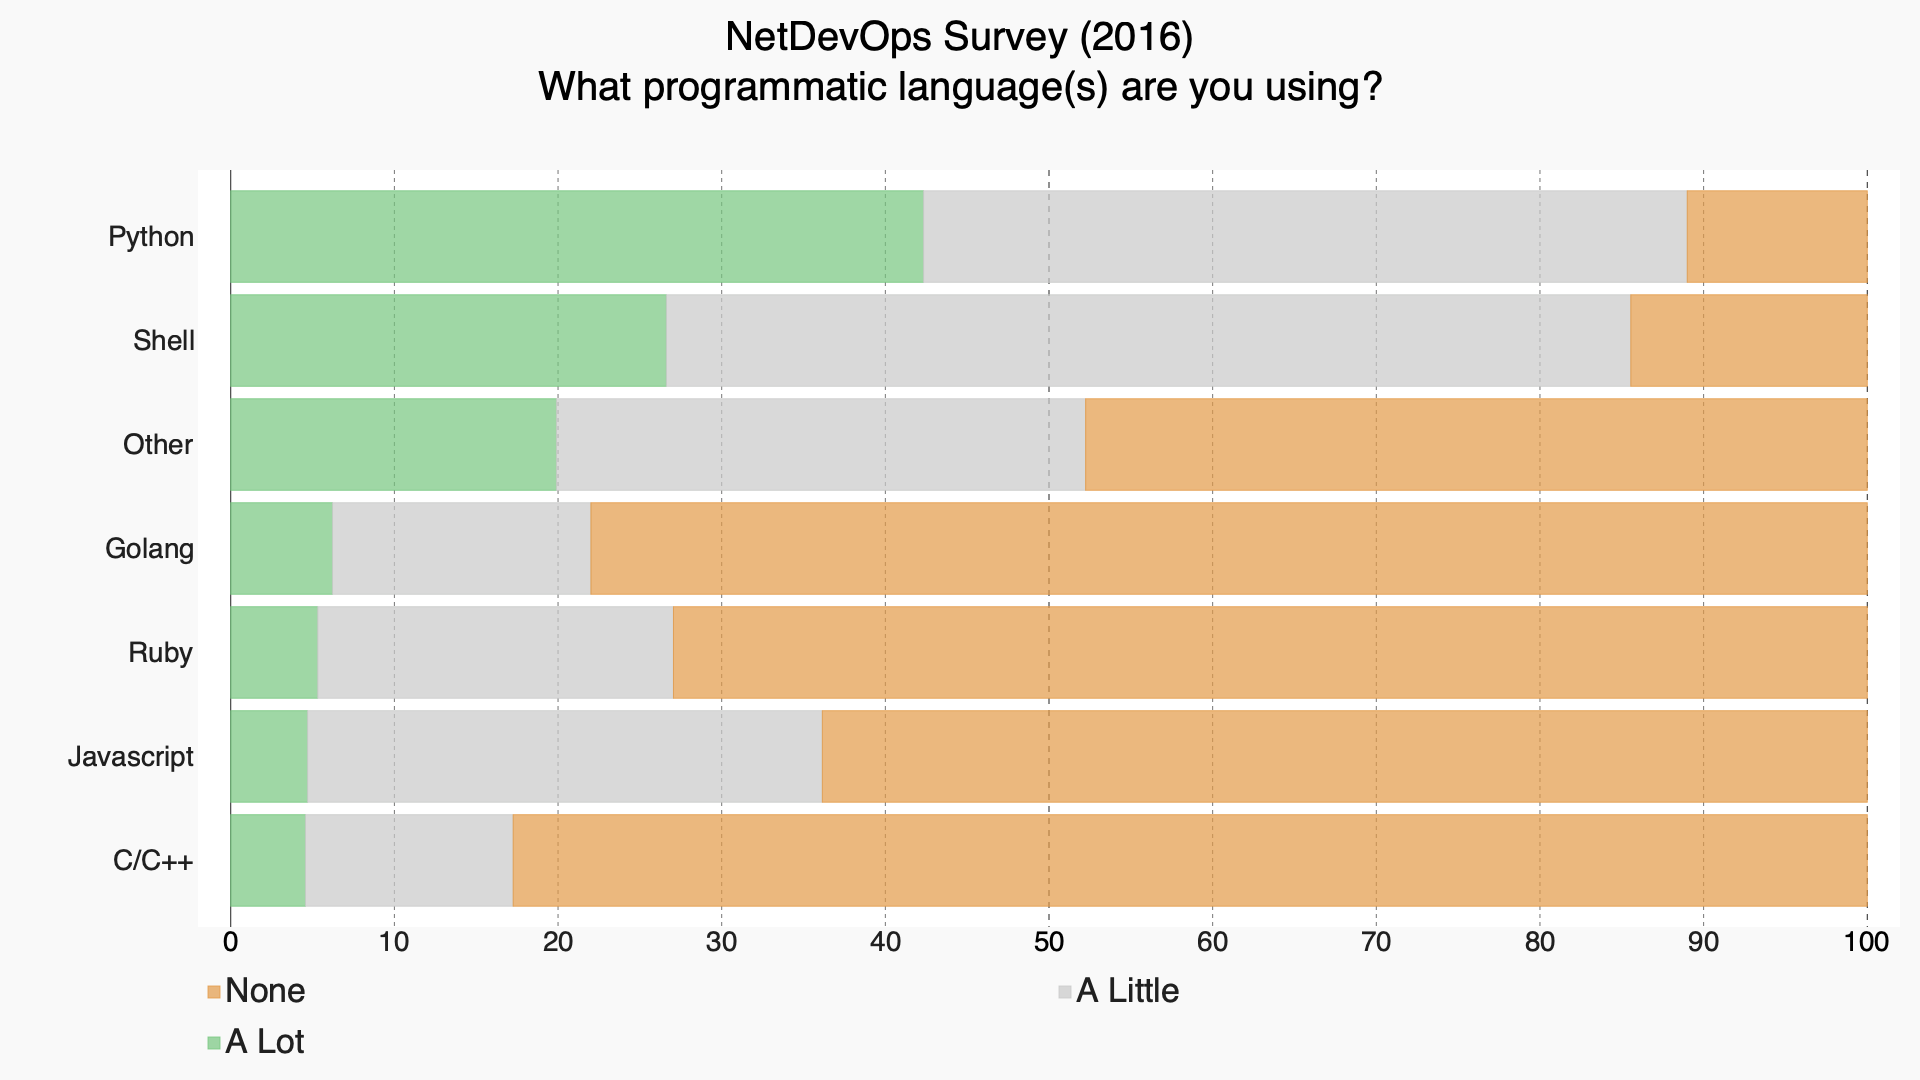
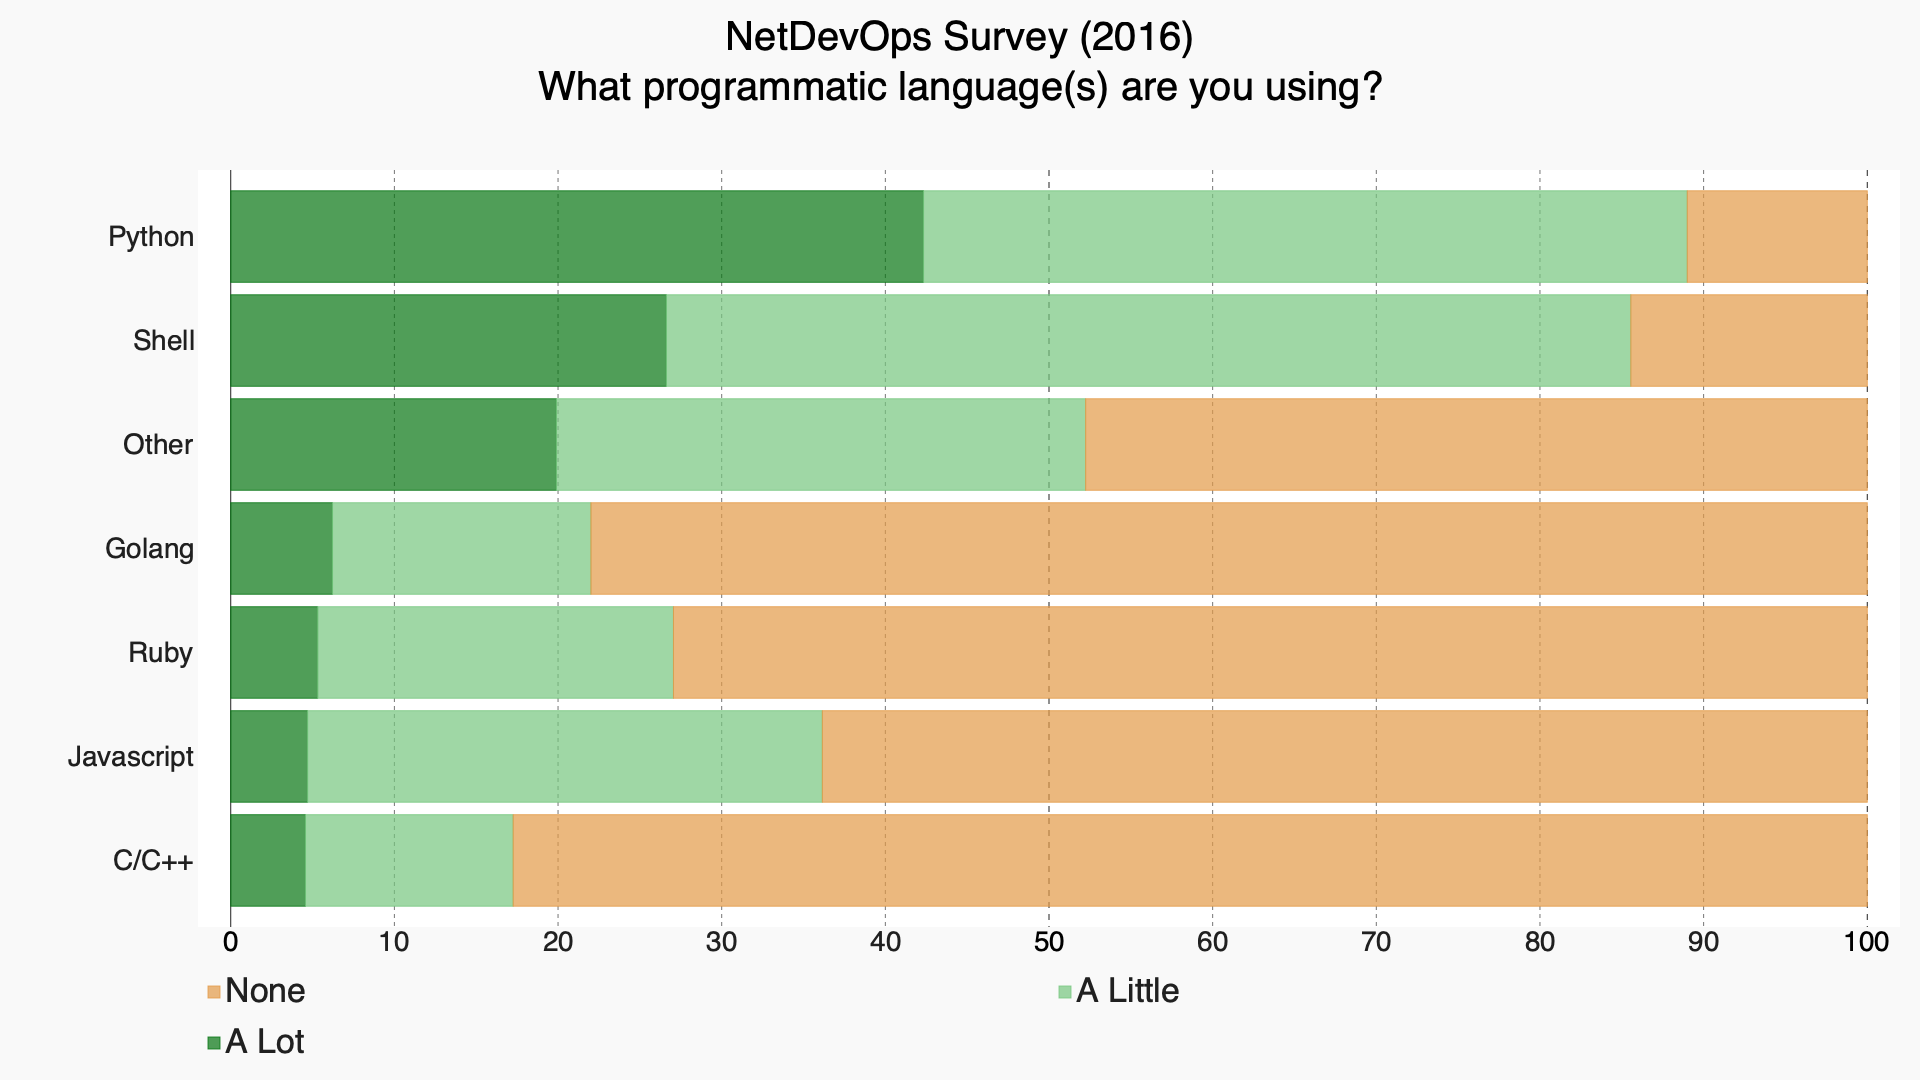
Update colors for programmatic language graphs

Changed region(s): [[0.0938, 0.1528, 0.9062, 0.8556]]

diff --git a/lib/graph.py b/lib/graph.py
@@ -23,6 +23,7 @@ from .query import *
 GREEN = "#38761D"
 RED = "#B45F06"
 TRENDS_COLOR = ("#E39A48", "#C9CAC9", "#77C780", "#00B814", "#067512")
+LANGUAGE_COLOR = ("#E39A48", "#77C780", "#067512")
 
 # COLORS = ("#2589BD", "#A39171", "#86BAA1", "#FFCF56", "#38686A", "#00635D", "#6D9DC5", "#A3B4A2")
 COLORS = ( "#009E73", "#E69F00", "#56B4E9", "#F0E442", "#0072B2", "#D55E00", "#CC79A7", "#999999")
@@ -37,6 +38,8 @@ style_args = dict(
 )
 
 netdevops_style_trends = Style(colors=TRENDS_COLOR, **style_args)
+netdevops_style_language = Style(colors=TRENDS_COLOR, **style_args)
+
 
 
 def reorder_index_we_havent(indexes):
@@ -110,13 +113,21 @@ def stacked_graph_gsq(session, sq, results_order=None):
 
     title = sq.text.replace("?", "?\n")
 
+    if len(results.index) == 3:
+        colors = LANGUAGE_COLOR
+    else:
+        colors = TRENDS_COLOR
+
     chart = pygal.HorizontalStackedBar(
         legend_at_bottom=True,
         stack_from_top=True,
         width=1920,
         height=1080,
         title=f"NetDevOps Survey ({sq.survey_id}) \n {title}",
-        style=netdevops_style_trends,
+        style=Style(
+            colors=colors, 
+            **style_args
+        ),
     )
 
     chart.x_labels = map(str, results.columns)
